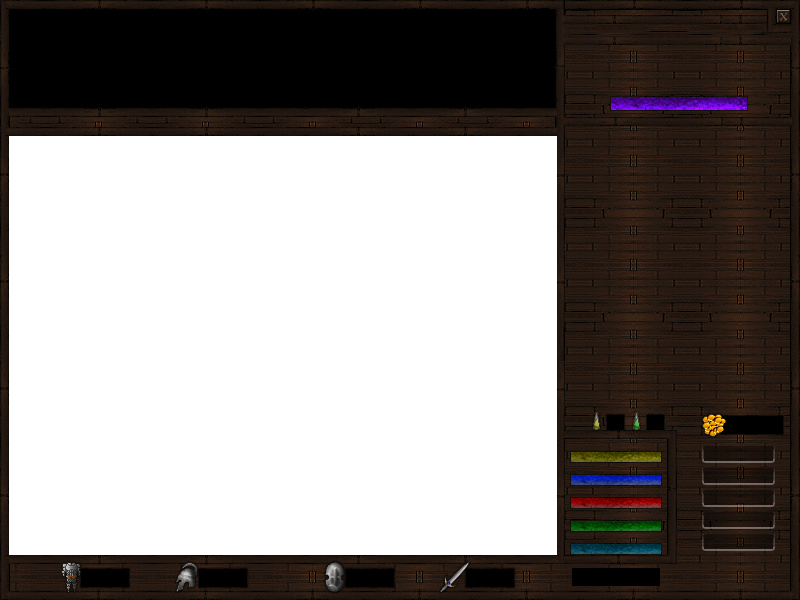
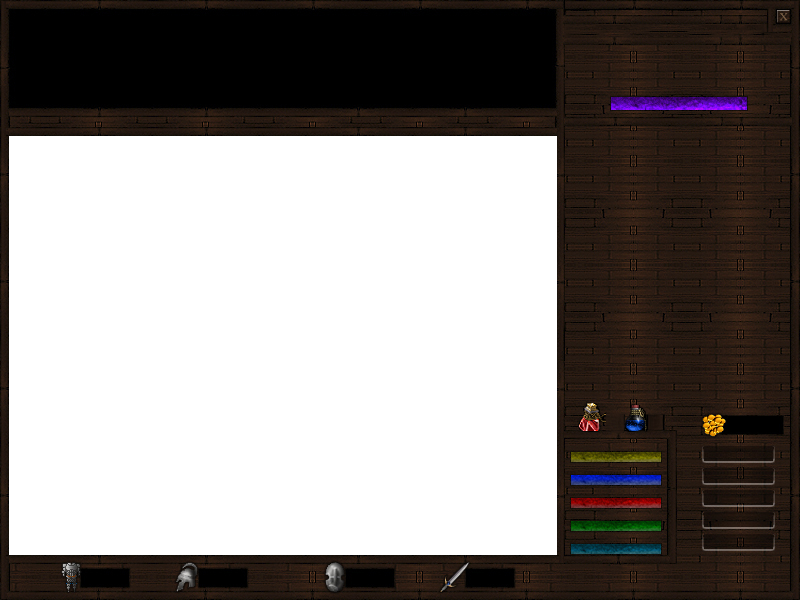
Pociones y oro.

Changed region(s): [[0.7188, 0.93, 0.8438, 0.99], [0.7188, 0.66, 0.8438, 0.72]]

diff --git a/Programa/core/src/com/screens/Hud.java b/Programa/core/src/com/screens/Hud.java
@@ -44,6 +44,7 @@ public class Hud implements Disposable {
 	public static final float HUD_HALF_WIDTH = 273.5f;
 	public static Skin skin;
 	public Label playerName, health, mana, energy, attackDamage, armorDef, helmetDef, shieldDef, powersDef, nameAttack;
+	public Label healthPotions, manaPotions, money;
 	public Player player;
 	private static Table table;
 	private static ScrollPane scrollPane;
@@ -97,8 +98,9 @@ public class Hud implements Disposable {
 		case DROP:
 			color = Color.LIME;
 		break;
-
-
+		case REWARD:
+			color = Color.GOLDENROD;
+		break;
 		default:
 			color = Color.WHITE;
 			break;
@@ -125,7 +127,9 @@ public class Hud implements Disposable {
 		this.helmetDef.setText(String.format("%s / %s", this.player.minHelmetDef, this.player.maxHelmetDef));
 		this.shieldDef.setText(String.format("%s / %s", this.player.minShieldDef, this.player.maxShieldDef));
 		this.attackDamage.setText(String.format("%s / %s", this.player.minAttackDamage, this.player.maxAttackDamage));
-
+		this.healthPotions.setText(Integer.toString(player.healthPotions));
+		this.manaPotions.setText(Integer.toString(player.manaPotions));
+		this.money.setText(Integer.toString(player.money));
 	}
 
 	public void defineHudElements() {
@@ -155,6 +159,21 @@ public class Hud implements Disposable {
 		attackDamage.setSize(50, 20);
 		attackDamage.setPosition(465, 30 - attackDamage.getHeight());
 		attackDamage.setAlignment(Align.center);
+		
+		healthPotions = new Label("", skin, "little-font", Color.WHITE);
+		healthPotions.setSize(50, 20);
+		healthPotions.setPosition(Gdx.graphics.getWidth() - 215, 185 - healthPotions.getHeight());
+		healthPotions.setAlignment(Align.center);
+		
+		manaPotions = new Label("", skin, "little-font", Color.WHITE);
+		manaPotions.setSize(50, 20);
+		manaPotions.setPosition(Gdx.graphics.getWidth() - 170, 185 - manaPotions.getHeight());
+		manaPotions.setAlignment(Align.center);
+
+		money = new Label("", skin, "little-font", Color.GOLDENROD);
+		money.setSize(50, 20);
+		money.setPosition(Gdx.graphics.getWidth() - 75, 185 - money.getHeight());
+		money.setAlignment(Align.center);
 
 		powersDef = new Label("Hechizos", skin, "white-font", Color.BLUE);
 		powersDef.setPosition(image.getWidth() - 205, image.getHeight() - 160);
@@ -237,7 +256,9 @@ public class Hud implements Disposable {
 		stage.addActor(btnAttack9);
 		stage.addActor(powersDef);
 		stage.addActor(nameAttack);
-
+		stage.addActor(manaPotions);
+		stage.addActor(healthPotions);
+		stage.addActor(money);
 	}
 
 	private void createAttacksButtons() {

diff --git a/Programa/core/src/com/actors/Character.java b/Programa/core/src/com/actors/Character.java
@@ -2,6 +2,8 @@ package com.actors;
 
 import static com.constants.Constants.PPM;
 
+import java.util.Random;
+
 import com.actors.states.PlayerStates;
 import com.attacks.Attack;
 import com.badlogic.gdx.Gdx;
@@ -61,6 +63,8 @@ public class Character extends Sprite {
 	private TextureRegion regionOpen;
 	private TextureRegion regionClose;
 
+	private Random random = new Random();
+
 	public Character(MainGame game, World world, String name) {
 		this.world = world;
 		this.game = game;
@@ -80,7 +84,7 @@ public class Character extends Sprite {
 				alive = false;
 			}
 			setRegion(getFrame(delta));
-		} else { // ES UN COFRE
+		} else {// ES UN COFRE
 			this.isChest = true;
 			setBounds(body.getPosition().x - (this.regionClose.getRegionWidth() / 2) / PPM,
 					body.getPosition().y - (this.regionClose.getRegionWidth() / 2) / PPM, 30 / PPM, 32 / PPM);
@@ -92,11 +96,18 @@ public class Character extends Sprite {
 		}
 
 	}
-	
+
 	public void openChest() {
-		this.attackedBy.mana = 0;
-		GameScreen.hud.updateStats((Player) this.attackedBy);
-		Hud.printMessage("Abrio el cofre y obtuvo", MessageType.DROP);
+		int cantHealthPotions = random.nextInt(5) + 1;
+		int cantManaPotions = random.nextInt(10) + 1;
+		Player player = (Player) this.attackedBy;
+		player.healthPotions += cantHealthPotions;
+		player.manaPotions += cantManaPotions;
+		player.money += 100; 
+		GameScreen.hud.updateStats(player);
+		Hud.printMessage("Abriste el cofre y obtuviste " + cantHealthPotions + " pociones de vida y " + cantManaPotions
+				+ " pociones de mana!!!", MessageType.REWARD);
+		Hud.printMessage("Ganaste 100 monedas de oro", MessageType.REWARD);
 	}
 
 	public TextureRegion getFrame(float delta) {

diff --git a/Programa/core/src/com/screens/GameScreen.java b/Programa/core/src/com/screens/GameScreen.java
@@ -51,8 +51,6 @@ public class GameScreen implements Screen, InputProcessor {
 
 	public static Player player;
 
-	private Enemy enemy;
-
 	private Array<Enemy> enemies;
 
 	private int iteraciones = 0;
@@ -285,6 +283,20 @@ public class GameScreen implements Screen, InputProcessor {
 
 	@Override
 	public boolean keyDown(int keycode) {
+		if(keycode == Keys.NUM_1) {
+			if(player.health < player.maxHealth) {
+				player.healthPotions--;
+				player.health += 10;
+				hud.updateStats(player);	
+			}
+		}
+		if(keycode == Keys.NUM_2) {
+			if(player.mana < player.maxMana) {
+				player.manaPotions--;
+				player.mana += 20;
+				hud.updateStats(player);	
+			}
+		}
 		return false;
 	}
 

diff --git a/Programa/core/src/com/actors/Player.java b/Programa/core/src/com/actors/Player.java
@@ -45,7 +45,8 @@ public class Player extends Character {
 	public int minAttackDamage = 50;
 	public int maxAttackDamage = 70;
 	public int healthPotions = 20;
-	public int manaPotions = 20;
+	public int manaPotions = 30;
+	public int money = 0;
 
 	// Scene2d
 	private Label playerLabel;

diff --git a/Programa/core/src/com/constants/MessageType.java b/Programa/core/src/com/constants/MessageType.java
@@ -1,5 +1,5 @@
 package com.constants;
 
 public enum MessageType {
-	PLAYER_CLICK, ENEMY_CLICK, COMBAT, DROP;
+	PLAYER_CLICK, ENEMY_CLICK, COMBAT, DROP, REWARD;
 }
